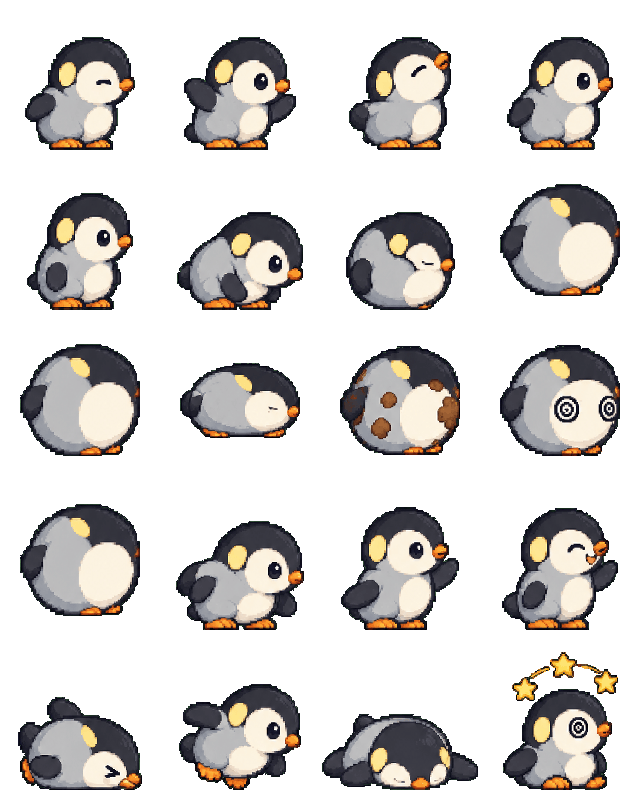
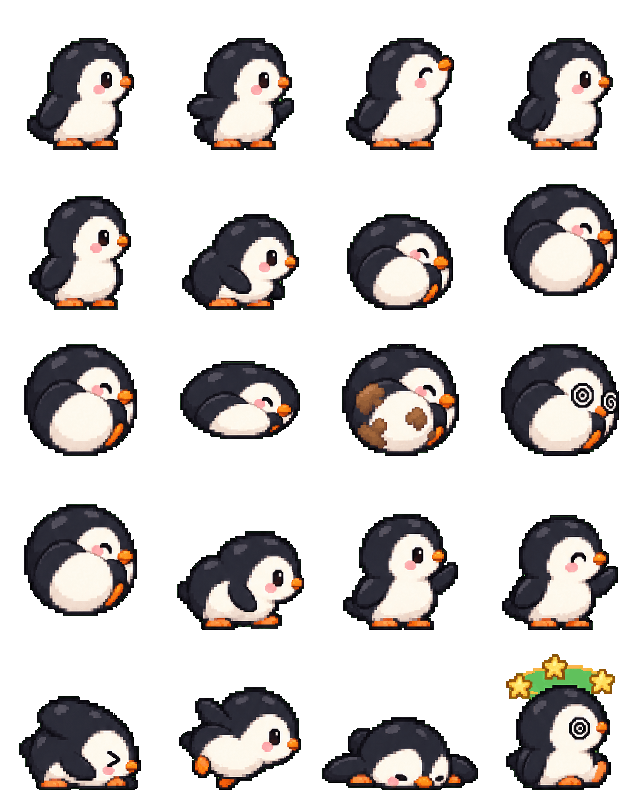
feat(deguri,balloon): 펭귄을 참고 이미지 느낌(검은 머리·흰 얼굴·분홍 볼터치)으로 다시 제작
- 회색 솜털 병아리 버전을 버리고 검은 머리·흰 얼굴·분홍 볼터치·주황 부리·검은 날개·흰 배의 고전 펭귄으로 시트 8장 전부 교체
- MOUTH.penguin 다시 측정(133,79)
- 걷기 시트는 칸 0·2 다리 배치가 비슷해 규격 검사 불합격이지만 눈으로 확인하고 인수(뒤뚱걸음)
- 검증: verify-creature·ball-round·balloon-sheet verify 통과, balloon determinism·qa-deguri-skin-shop 통과, 둥둥라이더 화면에서 확인

diff --git a/js/balloon-render.js b/js/balloon-render.js
@@ -77,7 +77,7 @@
     //  스킨은 creatures/{동물}-{스킨}-{kind}.webp(데구리 deguri_skin 전부) — 없으면 기본 동물 포즈로 그린다(서기·착지는 스킨 시트 그대로)
     var BA = '/assets/balloon/', BVER = '?v=3';
     var HANG_ANCHOR = [80, 4];
-    var MOUTH = { hedgehog: [141, 91], armadillo: [145, 95], pillbug: [139, 102], turtle: [146, 100], panda: [141, 84], hamster: [141, 92], pufferfish: [145, 100], raccoon: [142, 89], rabbit: [133, 89], ribbonpig: [131, 78], cat: [135, 75], penguin: [137, 82] };   // blow 칸 분홍 꼭지 끝(입) — balloon-sheet.py mouth 로 잰 값
+    var MOUTH = { hedgehog: [141, 91], armadillo: [145, 95], pillbug: [139, 102], turtle: [146, 100], panda: [141, 84], hamster: [141, 92], pufferfish: [145, 100], raccoon: [142, 89], rabbit: [133, 89], ribbonpig: [131, 78], cat: [135, 75], penguin: [133, 79] };   // blow 칸 분홍 꼭지 끝(입) — balloon-sheet.py mouth 로 잰 값
     var BAL_CELL = { w: 96, h: 120, knotX: 48, knotY: 116, bodyW: 88, popCY: 60 };
     var CHUTE = { w: 160, h: 112, rimX: 80, rimY: 108, openW: 150, worldW: 60, lift: 30 };
     var POSE_FPS = { hang: 5, blow: 4, fall: 10 };
